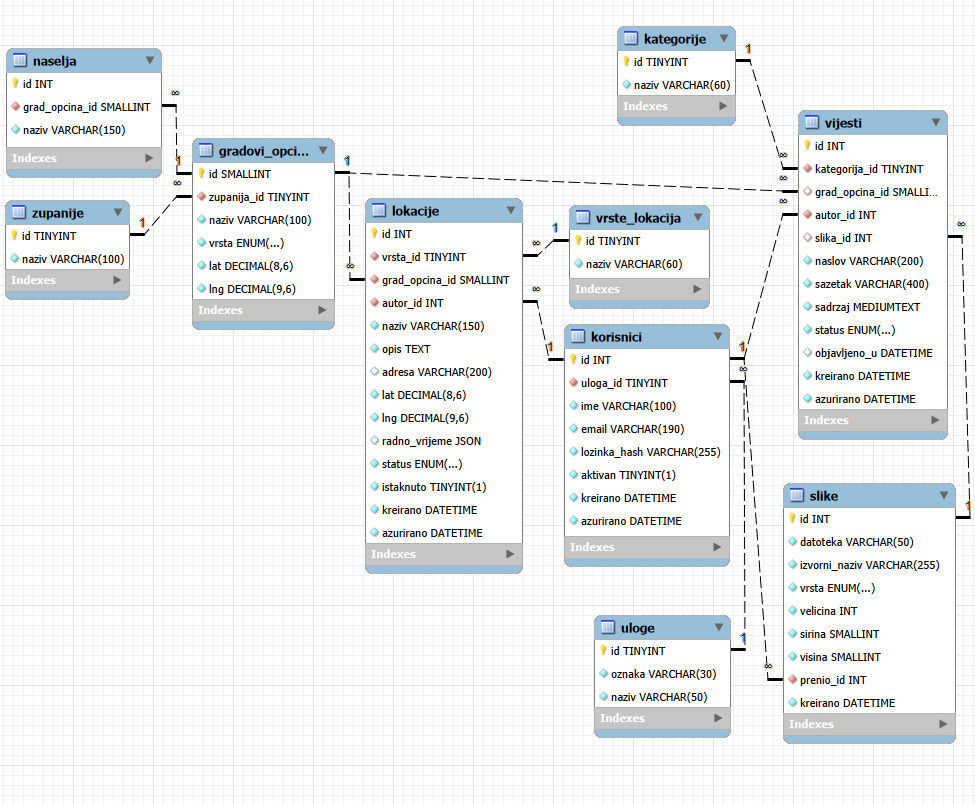
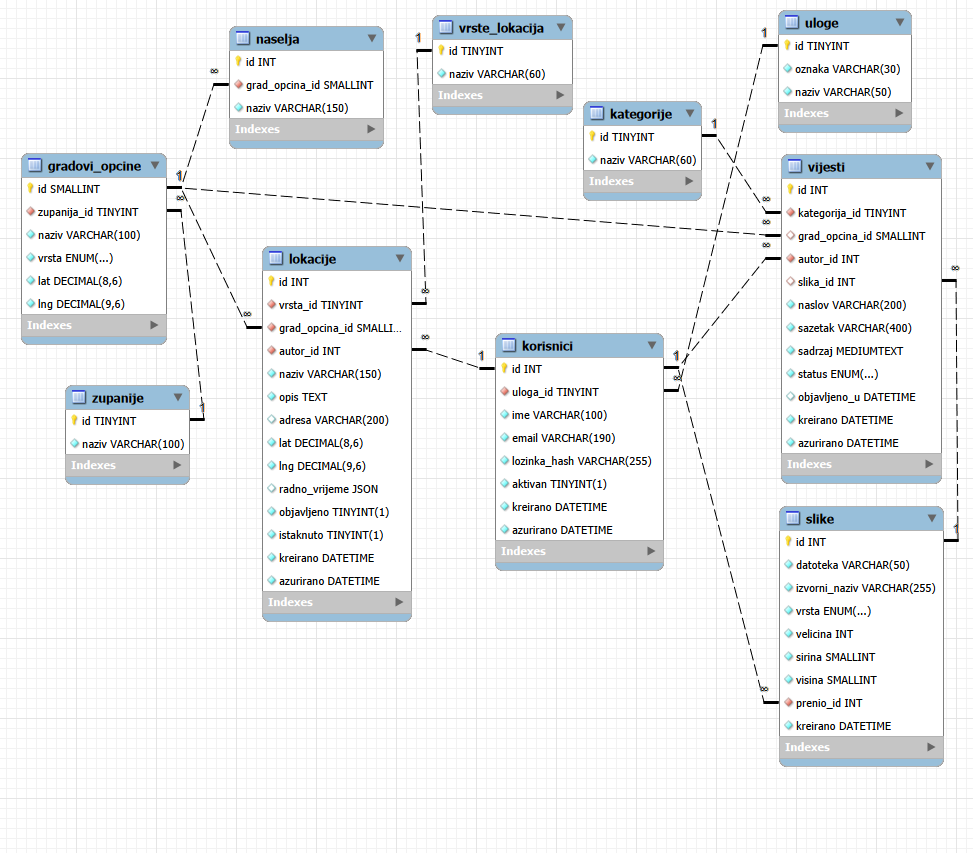
Novi testni podaci lokacija i javni popis s filtrima

Changed region(s): [[0.0, 0.0, 1.0, 0.9328], [0.9558, 0.7463, 0.9866, 0.7774]]

diff --git a/aplikacija/podaci/lokacije.php b/aplikacija/podaci/lokacije.php
@@ -1,0 +1,73 @@
+<?php
+
+function vrste_lokacija_sve()
+{
+    return db_svi_retci('SELECT id, naziv FROM vrste_lokacija ORDER BY naziv');
+}
+
+// Javno se vide samo objavljene lokacije
+// $filtar: zupanija, grad_opcina, vrsta (id-ovi, 0 = bez filtra) i trazi (tekst u nazivu ili opisu)
+// Vraća WHERE uvjet i parametre, zajedničke za popis i za brojanje lokacija.
+function lokacije_javne_uvjeti($filtar)
+{
+    $uvjeti = 'l.objavljeno = 1';
+    $parametri = [];
+
+    if (($filtar['grad_opcina'] ?? 0) > 0) {
+        $uvjeti .= ' AND l.grad_opcina_id = ?';
+        $parametri[] = (int) $filtar['grad_opcina'];
+    } elseif (($filtar['zupanija'] ?? 0) > 0) {
+        $uvjeti .= ' AND g.zupanija_id = ?';
+        $parametri[] = (int) $filtar['zupanija'];
+    }
+
+    if (($filtar['vrsta'] ?? 0) > 0) {
+        $uvjeti .= ' AND l.vrsta_id = ?';
+        $parametri[] = (int) $filtar['vrsta'];
+    }
+
+    if (($filtar['trazi'] ?? '') !== '') {
+        $uzorak = uzorak_pretrage($filtar['trazi']);
+        $uvjeti .= " AND (l.naziv LIKE ? ESCAPE '|' OR l.opis LIKE ? ESCAPE '|')";
+        $parametri[] = $uzorak;
+        $parametri[] = $uzorak;
+    }
+
+    return [$uvjeti, $parametri];
+}
+
+// Broj javnih lokacija za filtar (za straničenje)
+function lokacije_javne_broj($filtar = [])
+{
+    [$uvjeti, $parametri] = lokacije_javne_uvjeti($filtar);
+
+    $redak = db_jedan_redak(
+        "SELECT COUNT(*) AS broj
+         FROM lokacije l
+         JOIN gradovi_opcine g ON g.id = l.grad_opcina_id
+         WHERE $uvjeti",
+        $parametri
+    );
+
+    return (int) $redak['broj'];
+}
+
+// Jedna stranica javnih lokacija za filtar, poredanih po nazivu
+function lokacije_javne($filtar = [], $koliko = 10, $preskoci = 0)
+{
+    [$uvjeti, $parametri] = lokacije_javne_uvjeti($filtar);
+    $parametri[] = (int) $koliko;
+    $parametri[] = (int) $preskoci;
+
+    return db_svi_retci(
+        "SELECT l.id, l.naziv, l.opis, v.naziv AS vrsta, g.naziv AS grad_opcina, z.naziv AS zupanija
+         FROM lokacije l
+         JOIN vrste_lokacija v ON v.id = l.vrsta_id
+         JOIN gradovi_opcine g ON g.id = l.grad_opcina_id
+         JOIN zupanije z ON z.id = g.zupanija_id
+         WHERE $uvjeti
+         ORDER BY l.naziv, l.id
+         LIMIT ? OFFSET ?",
+        $parametri
+    );
+}

diff --git a/predlosci/lokacije.php b/predlosci/lokacije.php
@@ -1,0 +1,48 @@
+<?php
+$naslov = 'Lokacije';
+$opis = 'Znamenitosti, parkovi, staze, plaže i vidikovci diljem Hrvatske';
+$aktivno = 'lokacije';
+?>
+<?php $filtrirano = $odabrana_zupanija > 0 || $odabrana_vrsta > 0 || $trazi !== ''; ?>
+<form class="filtar" method="get" action="index.php">
+    <input type="hidden" name="stranica" value="lokacije">
+
+    <div class="polje">
+        <label class="polje__oznaka" for="trazi">Pretraga</label>
+        <input class="polje__unos" type="search" id="trazi" name="trazi" value="<?= e($trazi) ?>" maxlength="100">
+    </div>
+
+    <?php require __DIR__ . '/dijelovi/filtar-podrucja.php'; ?>
+
+    <div class="polje">
+        <label class="polje__oznaka" for="vrsta">Vrsta</label>
+        <select class="polje__unos" id="vrsta" name="vrsta">
+            <option value="">Sve vrste</option>
+            <?php foreach ($vrste as $vrsta): ?>
+                <option value="<?= e($vrsta['id']) ?>"<?= (int) $vrsta['id'] === $odabrana_vrsta ? ' selected' : '' ?>><?= e($vrsta['naziv']) ?></option>
+            <?php endforeach; ?>
+        </select>
+    </div>
+
+    <div class="filtar__radnje">
+        <button class="gumb gumb--glavni" type="submit">Prikaži</button>
+        <?php if ($filtrirano): ?>
+            <a class="gumb gumb--obrub" href="index.php?stranica=lokacije">Poništi filtar</a>
+        <?php endif; ?>
+    </div>
+</form>
+
+<?php if (count($lokacije) === 0): ?>
+    <p class="poruka poruka--prazno"><?= $filtrirano ? 'Nema lokacija za odabrani filtar.' : 'Trenutno nema objavljenih lokacija.' ?></p>
+<?php else: ?>
+    <?php foreach ($lokacije as $lokacija): ?>
+        <article class="lokacija-kartica">
+            <p><span class="oznaka oznaka--vrsta"><?= e($lokacija['vrsta']) ?></span></p>
+            <h2 class="lokacija-kartica__naziv"><a href="index.php?stranica=lokacija&amp;id=<?= e($lokacija['id']) ?>"><?= e($lokacija['naziv']) ?></a></h2>
+            <p class="lokacija-kartica__podrucje"><?= e($lokacija['grad_opcina'] . ', ' . $lokacija['zupanija']) ?></p>
+            <p class="lokacija-kartica__opis"><?= e(mb_strimwidth($lokacija['opis'], 0, 160, '…')) ?></p>
+        </article>
+    <?php endforeach; ?>
+
+    <?php require __DIR__ . '/dijelovi/stranicenje.php'; ?>
+<?php endif; ?>

diff --git a/aplikacija/stranice/lokacije.php b/aplikacija/stranice/lokacije.php
@@ -1,0 +1,51 @@
+<?php
+
+const LOKACIJE_PO_STRANICI = 6;
+
+// Popis lokacija s filtrom županije, grada/općine i vrste, pretragom i straničenjem
+function stranica_lokacije()
+{
+    $zupanije = zupanije_sve();
+    $vrste = vrste_lokacija_sve();
+    [$zupanija_id, $grad_opcina_id] = odabrano_podrucje($zupanije);
+
+    $vrsta_id = get_broj('vrsta');
+    if (!in_array($vrsta_id, array_map('intval', array_column($vrste, 'id')), true)) {
+        $vrsta_id = 0;
+    }
+
+    $filtar = [
+        'zupanija' => $zupanija_id,
+        'grad_opcina' => $grad_opcina_id,
+        'vrsta' => $vrsta_id,
+        'trazi' => get_tekst('trazi'),
+    ];
+
+    // Straničenje: ?str=2. Broj veći od zadnje stranice prikazuje zadnju stranicu.
+    $ukupno = lokacije_javne_broj($filtar);
+    $broj_stranica = max(1, (int) ceil($ukupno / LOKACIJE_PO_STRANICI));
+    $trenutna_stranica = min(max(1, get_broj('str')), $broj_stranica);
+
+    // Parametri adrese bez stranice, da poveznice straničenja zadrže filtar
+    $adresa = array_filter([
+        'stranica' => 'lokacije',
+        'trazi' => $filtar['trazi'],
+        'zupanija' => $zupanija_id,
+        'grad_opcina' => $grad_opcina_id,
+        'vrsta' => $vrsta_id,
+    ]);
+
+    prikazi('lokacije', [
+        'lokacije' => lokacije_javne($filtar, LOKACIJE_PO_STRANICI, ($trenutna_stranica - 1) * LOKACIJE_PO_STRANICI),
+        'trenutna_stranica' => $trenutna_stranica,
+        'broj_stranica' => $broj_stranica,
+        'adresa' => $adresa,
+        'zupanije' => $zupanije,
+        'gradovi_opcine' => gradovi_opcine_svi(),
+        'vrste' => $vrste,
+        'odabrana_zupanija' => $zupanija_id,
+        'odabrani_grad_opcina' => $grad_opcina_id,
+        'odabrana_vrsta' => $vrsta_id,
+        'trazi' => $filtar['trazi'],
+    ]);
+}

diff --git a/javno/index.php b/javno/index.php
@@ -10,11 +10,13 @@ require __DIR__ . '/../aplikacija/podaci/podrucja.php';
 require __DIR__ . '/../aplikacija/podaci/kategorije.php';
 require __DIR__ . '/../aplikacija/podaci/vijesti.php';
 require __DIR__ . '/../aplikacija/podaci/slike.php';
+require __DIR__ . '/../aplikacija/podaci/lokacije.php';
 require __DIR__ . '/../aplikacija/autentifikacija.php';
 require __DIR__ . '/../aplikacija/sigurnost.php';
 require __DIR__ . '/../aplikacija/stranice/opce.php';
 require __DIR__ . '/../aplikacija/stranice/korisnici.php';
 require __DIR__ . '/../aplikacija/stranice/vijesti.php';
+require __DIR__ . '/../aplikacija/stranice/lokacije.php';
 require __DIR__ . '/../aplikacija/stranice/administracija.php';
 
 // Popis dopuštenih stranica
@@ -25,6 +27,7 @@ $stranice = [
     'odjava' => 'stranica_odjava',
     'profil' => 'stranica_profil',
     'lozinka' => 'stranica_lozinka',
+    'lokacije' => 'stranica_lokacije',
     'vijesti' => 'stranica_vijesti',
     'vijest' => 'stranica_vijest',
     'slika' => 'stranica_slika',

diff --git a/predlosci/izgled.php b/predlosci/izgled.php
@@ -28,6 +28,7 @@ $klase = function ($blok, $stranica) use ($aktivno) {
 
             <nav class="izbornik">
                 <a class="<?= $klase('izbornik__stavka', 'pocetna') ?>" href="index.php">Početna</a>
+                <a class="<?= $klase('izbornik__stavka', 'lokacije') ?>" href="index.php?stranica=lokacije">Lokacije</a>
                 <a class="<?= $klase('izbornik__stavka', 'vijesti') ?>" href="index.php?stranica=vijesti">Vijesti</a>
                 <?php if (ima_ulogu(['administrator', 'urednik'])): ?>
                     <a class="<?= $klase('izbornik__stavka', 'administracija') ?>" href="index.php?stranica=admin-vijesti">Administracija</a>
